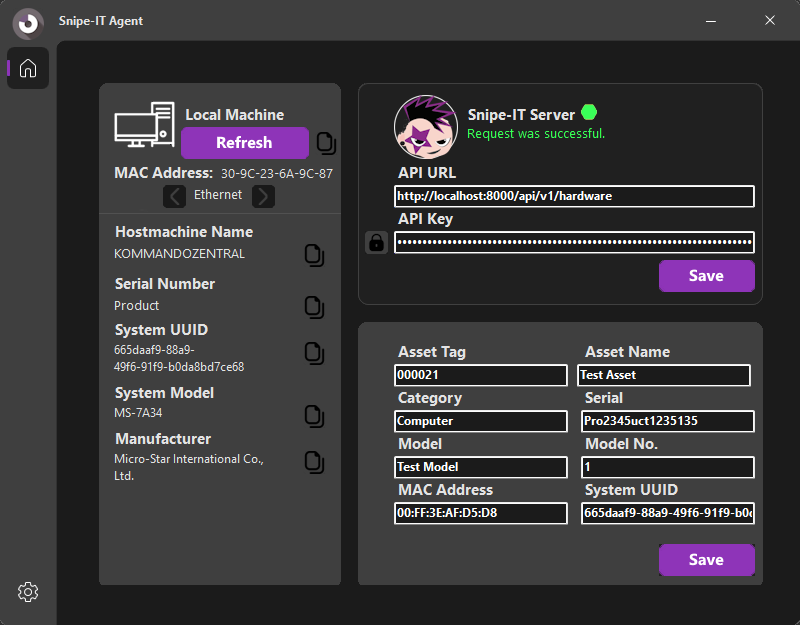
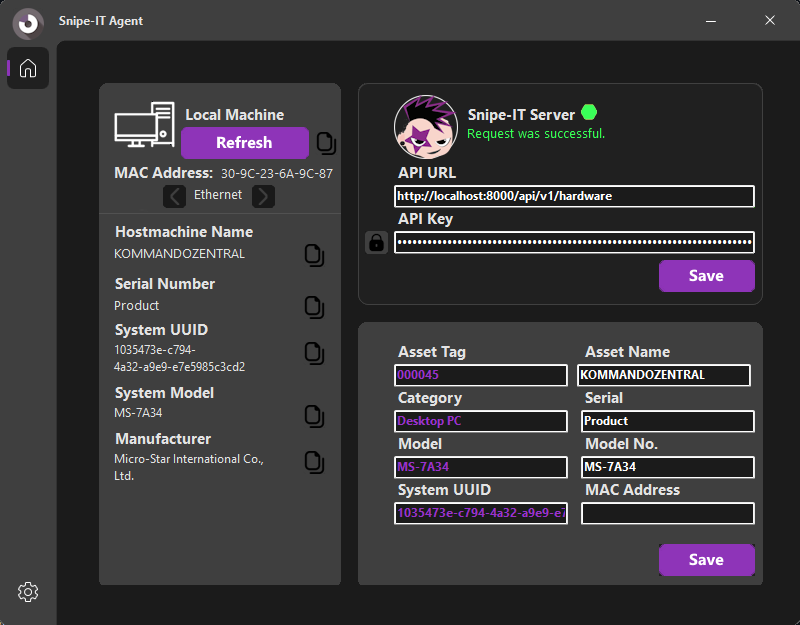
added a new image to preview SnipeAgent

diff --git a/SystemTrayApp/Home_Form.cs b/SystemTrayApp/Home_Form.cs
@@ -486,14 +486,18 @@ namespace SystemTrayApp
 
         private async void btnUpdateAssetData_Click(object sender, EventArgs e)
         {
+            //TODO: Accidentally broke the update assets function. cant retrieve mac address to textbox for some reason
             //Context_Menu_Form ctmForm = new Context_Menu_Form();
             //ctmForm.Show();
+            DotNetEnv.Env.Load($@"{Environment.GetFolderPath(Environment.SpecialFolder.ApplicationData)}\SnipeAgent\.Env");
+            string macCustomField = DotNetEnv.Env.GetString("MAC_CUSTOM_FIELD");
+            string uuidCustomField = DotNetEnv.Env.GetString("UUID_CUSTOM_FIELD");
 
             Dictionary<string, object> updates = new Dictionary<string, object>
             {
-                { "_snipeit_mac_address_1", txtAssetMAC.Text.Replace('-',':') },
+                { macCustomField, txtAssetMAC.Text.Replace('-',':') },
                 { "name",txtAssetName.Text},
-                { "_snipeit_uuid_2", txtAssetUUID.Text},
+                { uuidCustomField, txtAssetUUID.Text},
                 { "model_id", txtAssetModelNumber.Text },
                 {"serial", txtAssetSerial.Text }
             };

diff --git a/SystemTrayApp/Program.cs b/SystemTrayApp/Program.cs
@@ -27,7 +27,7 @@ namespace SystemTrayApp
                 {
                     Console.WriteLine("File not found.");
                 }
-            }
+            } 
             else
             {
                 Console.WriteLine("Base directory 'SnipeAgent' not found.");
